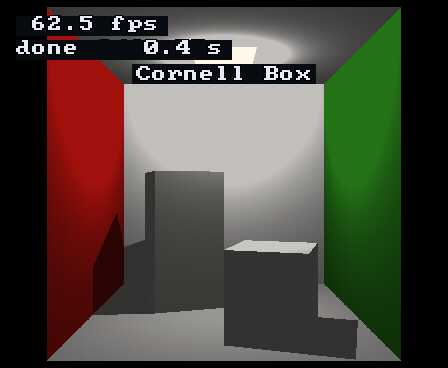
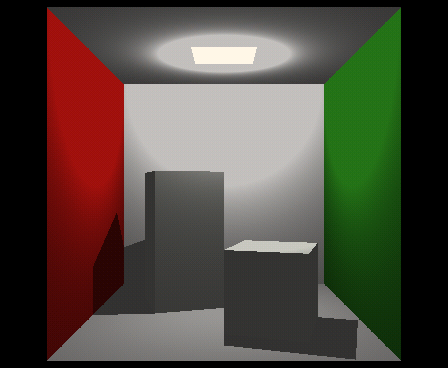
docs: README images come from one script and a pixel compare; Cornell box without the HUD; refresh workflow

Changed region(s): [[0.0312, 0.0299, 0.7188, 0.2391]]

diff --git a/launcher/tools/render/compare_images.py b/launcher/tools/render/compare_images.py
@@ -32,8 +32,9 @@ def frame_difference(a, b):
     peak = max(high for _, high in diff.getextrema())
     if peak == 0:
         return 0, 0
-    mask = diff.convert("L").point(lambda level: 255 if level else 0)
-    return peak, sum(mask.histogram()[1:])
+    red, green, blue = diff.split()
+    worst = ImageChops.lighter(ImageChops.lighter(red, green), blue)
+    return peak, sum(worst.histogram()[1:])
 
 
 def compare(a_frames, b_frames, tolerance=0):

diff --git a/docs/tools/Render-Harness.md b/docs/tools/Render-Harness.md
@@ -21,38 +21,29 @@ checked, and compared with device captures.
 
 ## Images in these docs
 
-An image under `docs/images/` that a scene draws is regenerated beside that
-scene: an engine scene's here, an app's in that app's `tools/README.md`. Run
-the commands from the repository root; a render script writes under its
-`-o` directory.
-
-| Image | Command | Output to copy |
-|---|---|---|
-| `docs/images/overview/launcher-home.png` | below | |
-| `docs/images/overview/launcher-home.gif` | below | |
-
-Both list the release firmware's apps, read from every app folder without a
-`development_only.cmake`; the scene sorts them the way the firmware does. The
-GIF is one 4 s rock of the board, 30 degrees either way:
+Every file in `docs/images/overview/` is made by one script, from the
+repository root:
 
 ```sh
-L=launcher/tools/results/render/launcher_home
-./launcher/tools/render/scenes/launcher_home_render_host.sh
-rows=()
-for d in launcher/main/apps/*/; do
-    [ -f "$d/development_only.cmake" ] && continue
-    while IFS= read -r name; do rows+=(--row "$name"); done \
-        < <(sed -n 's/^ *\.name = "\(.*\)",\r\{0,1\}$/\1/p' "$d"app_*.c)
-done
-$L/launcher_home_render --quarter 1 "${rows[@]}" -o $L/release.bmp
-python -c "from PIL import Image; Image.open('$L/release.bmp').save('docs/images/overview/launcher-home.png')"
-$L/launcher_home_render --quarter 1 --tilt-sweep "${rows[@]}" --frames 250 --dt 16 \
-    -o $L/sweep.bmp --video $L/sweep.avi
-ffmpeg -y -i $L/sweep.avi -vf "fps=15,palettegen=stats_mode=diff" $L/sweep-palette.png
-ffmpeg -y -i $L/sweep.avi -i $L/sweep-palette.png \
-    -filter_complex "[0:v]fps=15[v];[v][1:v]paletteuse=dither=none:diff_mode=rectangle" \
-    -loop 0 docs/images/overview/launcher-home.gif
+./launcher/tools/render/render_readme_images.sh           # rewrite the images
+./launcher/tools/render/render_readme_images.sh --check   # report which would change
 ```
+
+It needs a host C compiler, Python with Pillow and ffmpeg 5.1 or newer, and
+takes about a minute. `--check` renders into `launcher/tools/results/readme_images/out/`
+and compares decoded pixels with `compare_images.py`, never bytes: another
+ffmpeg or Pillow writes different GIF bytes for the same frames. It prints
+`same` or `changed` per image, and `orphan` for a file nothing makes. The
+`readme-images` workflow runs it on every push to main and opens one pull
+request when an image changed.
+
+| Image | Shows |
+|---|---|
+| `launcher-home.png` | the launcher listing the release build's apps, read from the app folders |
+| `launcher-home.gif` | the same, one 4 s rock of the board 30 degrees either way |
+
+The rest belong to apps, and each app's `tools/README.md` says what its
+images show. Files are at the panel's own 448x368 unless an app's README says otherwise.
 
 ---
 

diff --git a/launcher/main/apps/render_lab/tools/README.md b/launcher/main/apps/render_lab/tools/README.md
@@ -19,38 +19,12 @@ capture. The Gouraud scene rotates when stepped over several frames.
 
 ## Images in the docs
 
-Run from the repository root.
+`launcher/tools/render/render_readme_images.sh` makes these in
+`docs/images/overview/`; see "Images in these docs" in
+[`docs/tools/Render-Harness.md`](../../../../../docs/tools/Render-Harness.md).
 
-| Image | Command | Output to copy |
-|---|---|---|
-| `docs/images/overview/render-lab-cube.png` | `./launcher/main/apps/render_lab/tools/render_lab_render_host.sh -o <dir>` | `gouraud-landscape.png` |
-| `docs/images/overview/render-lab-cornell.png` | the same | `cornell-landscape.png` |
-| `docs/images/overview/render-lab-cube.gif` | below | |
-| `docs/images/overview/render-lab-sponza.gif` | below | |
-
-The cube GIF is 100 frames, reversed back onto itself as a loop:
-
-```sh
-R=launcher/main/apps/render_lab/tools/results/render/render_lab
-./launcher/main/apps/render_lab/tools/render_lab_render_host.sh
-$R/render_lab_render --quarter 1 --no-hud --scene gouraud --frames 100 --dt 33 \
-    -o $R/cube-motion.bmp --video $R/cube-motion.avi
-ffmpeg -y -i $R/cube-motion.avi \
-    -vf "fps=12,split[a][b];[b]reverse[r];[a][r]concat=n=2:v=1:a=0,palettegen" \
-    docs/images/overview/render-lab-cube-palette.png
-ffmpeg -y -i $R/cube-motion.avi -i docs/images/overview/render-lab-cube-palette.png \
-    -filter_complex "[0:v]fps=12,split[a][b];[b]reverse[r];[a][r]concat=n=2:v=1:a=0[v];[v][1:v]paletteuse=dither=bayer" \
-    -loop 0 docs/images/overview/render-lab-cube.gif
-```
-
-The Sponza GIF is the first 6 s of the flythrough at 8 frames a second:
-
-```sh
-$R/render_lab_render --quarter 1 --no-hud --scene sponza --frames 90 --dt 100 \
-    -o $R/sponza-motion.bmp --video $R/sponza-motion.avi
-ffmpeg -y -t 6 -i $R/sponza-motion.avi \
-    -vf "fps=8,palettegen=stats_mode=diff" $R/sponza-palette.png
-ffmpeg -y -t 6 -i $R/sponza-motion.avi -i $R/sponza-palette.png \
-    -filter_complex "[0:v]fps=8[v];[v][1:v]paletteuse=dither=none:diff_mode=rectangle" \
-    -loop 0 docs/images/overview/render-lab-sponza.gif
-```
+| Image | Shows |
+|---|---|
+| `render-lab-cube.png`, `render-lab-cube.gif` | the Gouraud cube; the GIF is 100 frames played forward and back |
+| `render-lab-cornell.png` | the path-traced Cornell box, converged, no HUD |
+| `render-lab-sponza.gif` | the first 6 s of the Sponza flythrough at 8 frames a second |

diff --git a/launcher/main/apps/sand/tools/README.md b/launcher/main/apps/sand/tools/README.md
@@ -21,9 +21,11 @@ scripted tilt angle, and encodes the loop as a GIF.
 
 ## Images in the docs
 
-Run from the repository root.
+`launcher/tools/render/render_readme_images.sh` makes these in
+`docs/images/overview/`; see "Images in these docs" in
+[`docs/tools/Render-Harness.md`](../../../../../docs/tools/Render-Harness.md).
 
-| Image | Command | Output to copy |
-|---|---|---|
-| `docs/images/overview/sand-menu.png` | `./launcher/main/apps/sand/tools/sand_menu_render_host.sh -o <dir>` | `title-landscape.png` |
-| `docs/images/overview/sand-simulation.gif` | `python launcher/main/apps/sand/tools/make_volcano_clip.py` | written in place; `--contact <path>` also writes a six-frame inspection strip |
+| Image | Shows |
+|---|---|
+| `sand-menu.png` | the title screen |
+| `sand-simulation.gif` | the volcano, lake and grove inside its turning panel, made by `make_volcano_clip.py`; `--contact <path>` also writes a six-frame inspection strip |
